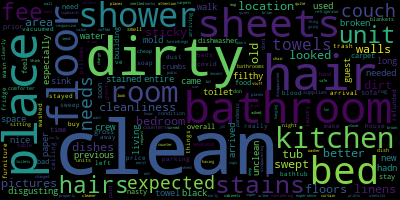
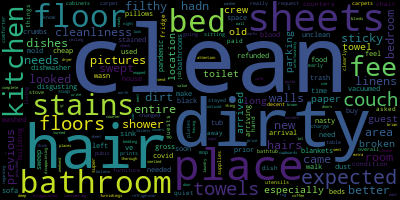
15 topics

diff --git a/reviews/NLP/reviews_base.py b/reviews/NLP/reviews_base.py
@@ -5,7 +5,7 @@ from nltk.stem.snowball import SnowballStemmer
 stemmer = SnowballStemmer("english")
 
 import os
-print(os.listdir("input"))
+# print(os.listdir("input"))
 
 reviews = pd.read_csv("./input/reviews_overall_u3.csv", header = 0, encoding = 'latin-1')
 print(reviews.shape)
@@ -23,12 +23,10 @@ reviews["comments_cleaned"] = reviews.concat_comments.apply(clean_text)
 from nltk.tokenize import RegexpTokenizer
 preprocessed = [" ".join(RegexpTokenizer(r'\w+').tokenize(reviews.comments_cleaned[idx])) for idx in reviews.index]
 
-
-
 from sklearn.feature_extraction.text import TfidfVectorizer
 from sklearn.feature_extraction import text
 
-custom_stop_words = ['airbnb', 'zencity', 'null', 'did', 'just', 'got', 'like', 'good', 'day', 'great']
+custom_stop_words = ['airbnb', 'zencity', 'null', 'did', 'just', 'got', 'like', 'good', 'day', 'great', 'nice', 'didnt', 'did', 'told', 'bad', 'didn', 'unit', 'units', 'said', 'bnb', 'given', 'dont', 'don']
 
 my_stop_words = text.ENGLISH_STOP_WORDS.union(custom_stop_words)
 
@@ -55,7 +53,6 @@ for topic_idx, topic in enumerate(H):
     print("Topic #%d:" % topic_idx)
     print(" ".join([feature_names[i]
                     for i in topic.argsort()[:-n_top_words - 1:-1]]))
-
 
 
 # Create pandas dataframe for the topics

diff --git a/reviews/NLP/reviews_lemmatizer.py b/reviews/NLP/reviews_lemmatizer.py
@@ -33,7 +33,8 @@ preprocessed = [" ".join(RegexpTokenizer(r'\w+').tokenize(reviews.comments_clean
 from sklearn.feature_extraction.text import TfidfVectorizer
 from sklearn.feature_extraction import text 
 
-custom_stop_words = ['airbnb', 'zencity', 'host', 'wa', 'null', 'got', 'just']
+custom_stop_words = ['airbnb', 'zencity', 'null', 'did', 'just', 'got', 'like', 'good', 'day', 'great', 'nice', 'didnt', 'did', 'told', 'bad', 'didn', 'unit', 'units', 'said', 'bnb', 'given', 'dont', 'don']
+
 my_stop_words = text.ENGLISH_STOP_WORDS.union(custom_stop_words)
 
 vectorizer = TfidfVectorizer(min_df = 1, ngram_range = (1,1), 

diff --git a/reviews/NLP/reviews_cleanliness.py b/reviews/NLP/reviews_cleanliness.py
@@ -28,7 +28,7 @@ preprocessed = [" ".join(RegexpTokenizer(r'\w+').tokenize(reviews.comments_clean
 from sklearn.feature_extraction.text import TfidfVectorizer
 from sklearn.feature_extraction import text
 
-custom_stop_words = ['airbnb', 'zencity', 'null', 'did', 'just', 'got', 'like', 'good', 'day', 'great', 'nan']
+custom_stop_words = ['airbnb', 'zencity', 'null', 'did', 'just', 'got', 'like', 'good', 'day', 'great', 'nice', 'didnt', 'did', 'told', 'bad', 'didn', 'unit', 'units', 'said', 'bnb', 'given', 'dont', 'don', 'nan']
 
 my_stop_words = text.ENGLISH_STOP_WORDS.union(custom_stop_words)
 
